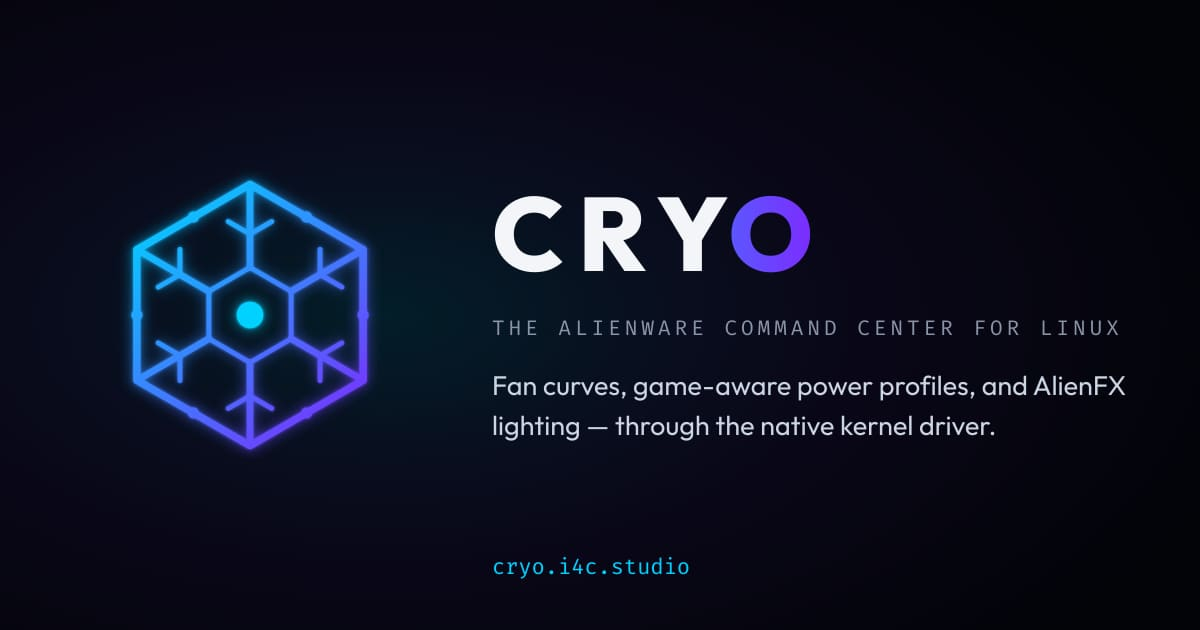
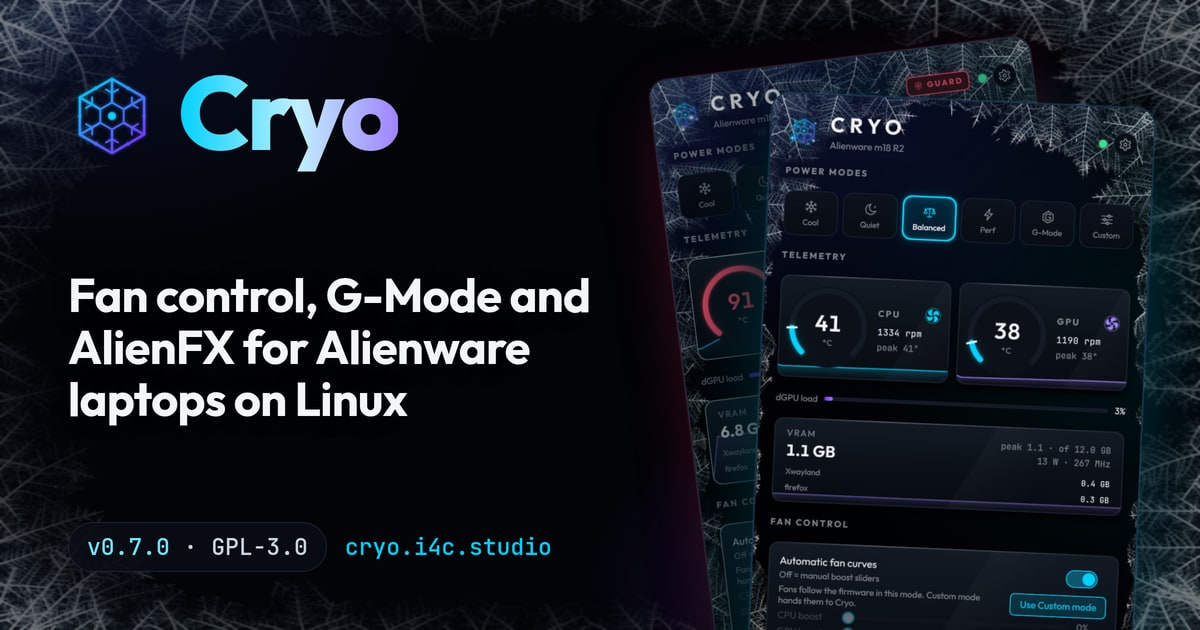
docs: new social card and the four styles in the README (#37)
* docs: new social card and the four styles in the README

- assets/brand/social-card.jpg is the 0.7.0 card (the real window over
  frost), the same image the site serves.
- A row of screenshots, one per style, under the feature list.
- A download badge and the site's download link beside the release
  link in Install.

Claude-Session: https://claude.ai/code/session_0137cahar5LBoYMf2fiDkt4v

* docs: the development machine runs Arch Linux

Claude-Session: https://claude.ai/code/session_0137cahar5LBoYMf2fiDkt4v

---------

diff --git a/README.md b/README.md
@@ -1,5 +1,5 @@
 <div align="center">
-  <img src="https://raw.githubusercontent.com/I4cTime/cryo/main/assets/brand/social-card.jpg" alt="Cryo - the Alienware command center for Linux" width="100%" />
+  <img src="https://raw.githubusercontent.com/I4cTime/cryo/main/assets/brand/social-card.jpg" alt="Cryo - fan control, G-Mode and AlienFX for Alienware laptops on Linux" width="100%" />
 </div>
 
 # Cryo
@@ -8,6 +8,7 @@ Website: [cryo.i4c.studio](https://cryo.i4c.studio)
 
 [![CI](https://img.shields.io/github/actions/workflow/status/I4cTime/cryo/ci.yml?style=flat-square&label=CI)](https://github.com/I4cTime/cryo/actions/workflows/ci.yml)
 [![Release](https://img.shields.io/github/v/release/I4cTime/cryo?style=flat-square&color=00d1ff)](https://github.com/I4cTime/cryo/releases)
+[![Download](https://img.shields.io/badge/download-Linux%20x86__64-00d1ff?style=flat-square&logo=linux&logoColor=white)](https://cryo.i4c.studio/download/linux-x86_64)
 [![Website](https://img.shields.io/badge/website-cryo.i4c.studio-00d1ff?style=flat-square)](https://cryo.i4c.studio)
 [![Docs](https://img.shields.io/badge/docs-cryo.i4c.studio-00d1ff?style=flat-square)](https://cryo.i4c.studio/docs)
 [![Platform](https://img.shields.io/badge/platform-Linux-00d1ff?style=flat-square&logo=linux&logoColor=white)](https://cryo.i4c.studio)
@@ -56,9 +57,17 @@ modules - that does things stock AWCC (and the Windows original) don't:
   no network. Animation pauses while the window is hidden, minimized or
   unfocused, so the GUI doesn't warm the machine it is watching.
 
+<p align="center">
+  <img src="https://raw.githubusercontent.com/I4cTime/cryo/main/assets/screenshots/cryo.webp" alt="The Cryo window in the Cryo style: power modes, CPU and GPU gauges, frost at the edges" width="24%" />
+  <img src="https://raw.githubusercontent.com/I4cTime/cryo/main/assets/screenshots/aurora.webp" alt="The Cryo window in the Aurora style" width="24%" />
+  <img src="https://raw.githubusercontent.com/I4cTime/cryo/main/assets/screenshots/glacier.webp" alt="The Cryo window in the Glacier style, the light one" width="24%" />
+  <img src="https://raw.githubusercontent.com/I4cTime/cryo/main/assets/screenshots/blackout.webp" alt="The Cryo window in the Blackout style" width="24%" />
+</p>
+<p align="center"><sub>The four styles: Cryo, Aurora, Glacier and Blackout. Try them without an Alienware with <code>cryo-gui --demo</code>, or in the simulation on <a href="https://cryo.i4c.studio">cryo.i4c.studio</a>.</sub></p>
+
 ## Will it work on my machine?
 
-Developed on an **Alienware m18 R2** (Pop!_OS); designed for the wider
+Developed on an **Alienware m18 R2** (Arch Linux); designed for the wider
 alienware-wmi ecosystem - the daemon probes what your machine supports at
 startup (profiles, G-Mode, fan boost, lighting, turbo control, NVML) and
 every client renders only what exists. Reported so far:
@@ -113,8 +122,10 @@ Cryo labels it accordingly.
 
 ## Install
 
-Download `cryo-<version>-linux-x86_64.tar.gz` from the
-[latest release](https://github.com/I4cTime/cryo/releases/latest), then:
+Download `cryo-<version>-linux-x86_64.tar.gz` from
+[cryo.i4c.studio/download/linux-x86_64](https://cryo.i4c.studio/download/linux-x86_64)
+or the [latest release](https://github.com/I4cTime/cryo/releases/latest),
+then:
 
 ```sh
 tar xf cryo-*-linux-x86_64.tar.gz && cd cryo-*/
